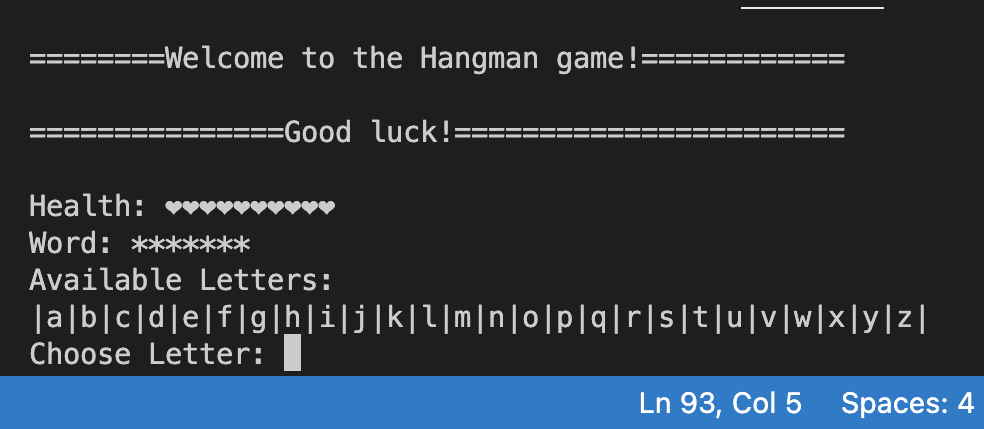
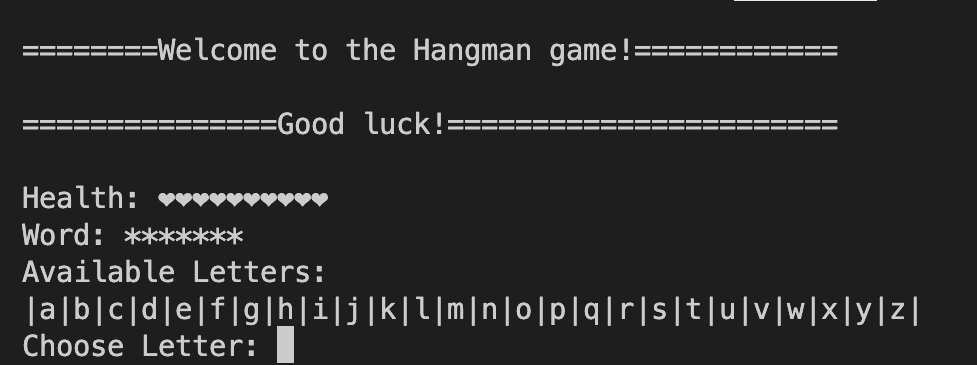
Update project files

diff --git a/hangman.py b/hangman.py
@@ -3,6 +3,7 @@ import string
 import time
 
 
+
 def load_file(file_path: str) -> list:
         random_words = []
         f = open(file_path, "r")
@@ -12,7 +13,7 @@ def load_file(file_path: str) -> list:
         return random_words
         
 def mask_word(word:str) -> str:
-        masked_word=''
+        masked_word = ''
         for character in word:
             if(character != " "):
                 masked_word = masked_word + "*"
@@ -20,7 +21,7 @@ def mask_word(word:str) -> str:
                 masked_word = masked_word + " "
         return masked_word  
 
-def select_letter(letters:str) -> list:
+def select_letter(letters:list) -> list:
         index = -1
         while(index == -1):
             l = input("Choose Letter: ")
@@ -50,12 +51,9 @@ def reduce_health(health:int, found:int):
             health -= 1
         return health
 
-def print_letters(letters:str) -> str:
-        print("Available Letters: ")
-        s = "|"
-        for l in letters:
-            s = s + l + "|"
-        print(s)
+def print_letters(letters: list) -> None:
+    print("Available Letters:")
+    print("|" + "|".join(letters) + "|")
         
 def print_info(masked_word:str, health:int) -> str:
         print("Health: " + "❤" * health)
@@ -87,9 +85,11 @@ health = 10
 
 game_over = 0
 
-print ("========Welcome to the Hangman game!============\n")
+name = input("Enter you name: ")
+
+print ("=============Welcome to the Hangman game!============\n")
 time.sleep(1.5)
-print ("=================Good luck!=====================\n")
+print ("=================" + name + " ,Good luck!=====================\n")
 
 while(not game_over):
   
@@ -106,7 +106,7 @@ while(not game_over):
     health = reduce_health(health, found)
     
     game_over = check_game_over(masked_word, health)
-    print("-------------------")
+    print("---------------------------------------")
 
 if(health > 0):
     

diff --git a/README.md b/README.md
@@ -1,6 +1,30 @@
-# Introduction to Hangman game
+<h1 align="center" id="title">Introduction to Hangman game</h1>
 
-The Hangman is a classic game where a player needs to guess a word where all the letters are masked. The player has a certain number of attempts and needs to select a letter: if the selected letter is part of the word all the locations with the selected letter are unmasked, on the other hand if the selected letter is not contained in the word then the number of attempts of the player decreases by one. The player wins if finds the word within the number of attempts and loses otherwise.
-![image](/image/hangman_terminal.png)
+<p id="description">The Hangman is a classic game where a player needs to guess a word where all the letters are masked. The player has a certain number of attempts and needs to select a letter: if the selected letter is part of the word all the locations with the selected letter are unmasked on the other hand if the selected letter is not contained in the word then the number of attempts of the player decreases by one. The player wins if finds the word within the number of attempts and loses otherwise.</p>
 
-# Installation
+<h2>Project Screenshot:</h2>
+
+<img src="https://raw.githubusercontent.com/newvaldas/hangman_terminal_game/master/hangman_terminal.png" alt="project-screenshot" width="640" height="230/">
+
+<h2>🛠 Installation Steps:</h2>
+
+<p>1. Clone project from GitHub link</p>
+
+```
+git clone https://github.com/newvaldas/hangman_terminal_game.git
+```
+
+<p>2. Set up the virtual environment</p>
+
+```
+python3 -m venv venv                    # create a virtual env in the folder `venv`
+source venv/bin/activate                # activate the virtual env
+pip install --upgrade pip               # securely upgrade pip
+pip install -r requirements.txt         # install dependencies
+```
+
+<p>3. Run game with this command</p>
+
+```
+python3 hangman.py
+```
